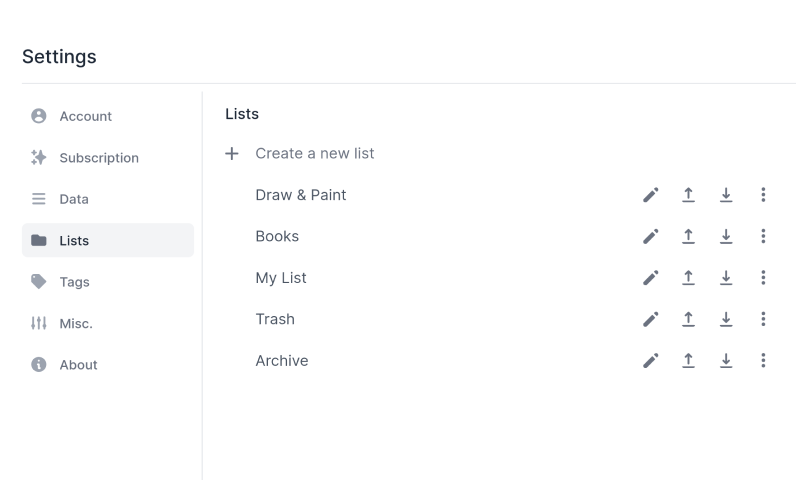
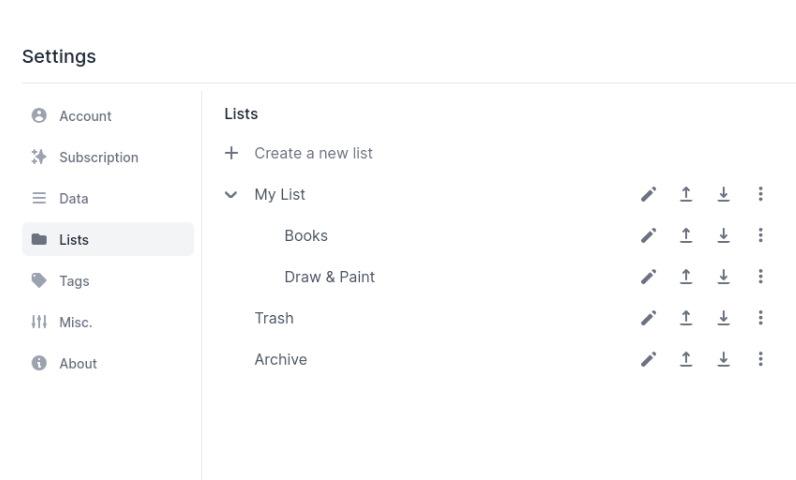
Add nested lists or subfolders

diff --git a/src/searchData.js b/src/searchData.js
@@ -203,10 +203,10 @@ export const searchData = [
         'Organize Lists',
         'organize-lists',
         [
-          'Also, in Settings -> Lists, you can',
+          'Also, in Settings -> Lists, you can:',
           'Edit a list name by clicking on the name.',
           "Arrange a list name with the 'up' or 'down' button.",
-          "Move into another list with the 'Move to' button.",
+          "Move into another list with the 'Move to' button (creating nest lists or subfolders).",
           "Delete a list name with the 'Delete' button.",
           "Some buttons might be in the three-dot menu. Default lists — 'My List', 'Trash', and 'Archive' — can not be deleted. 'My list' is the default list when you save a link from the browser address bar, browser extension, or mobile app. Trash is for removed links only, and you can permanently delete them here.",
         ],
